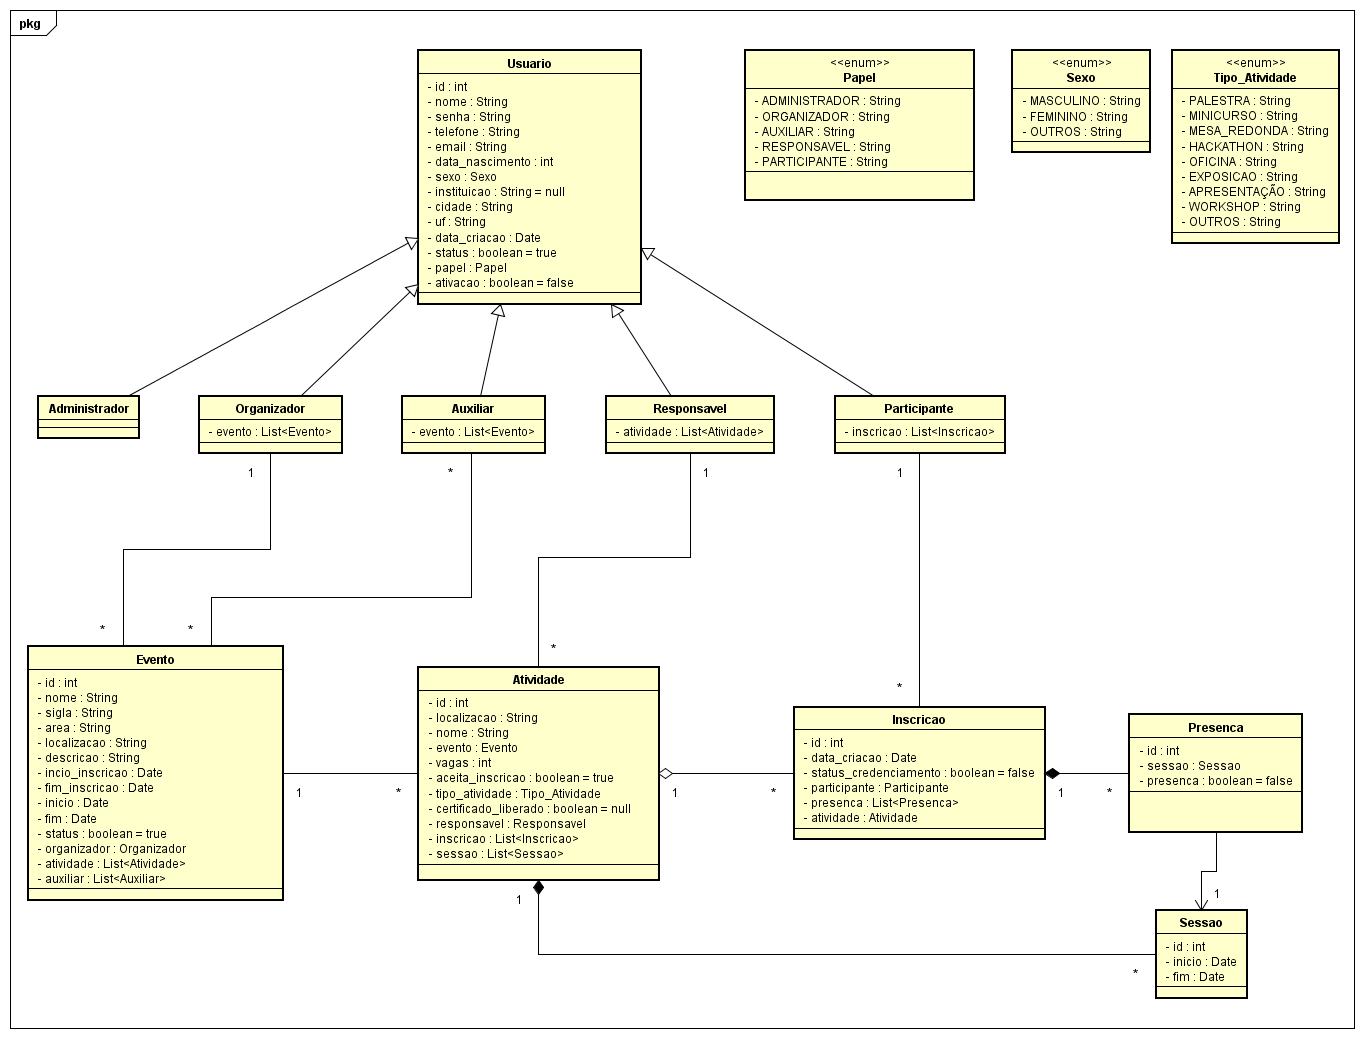
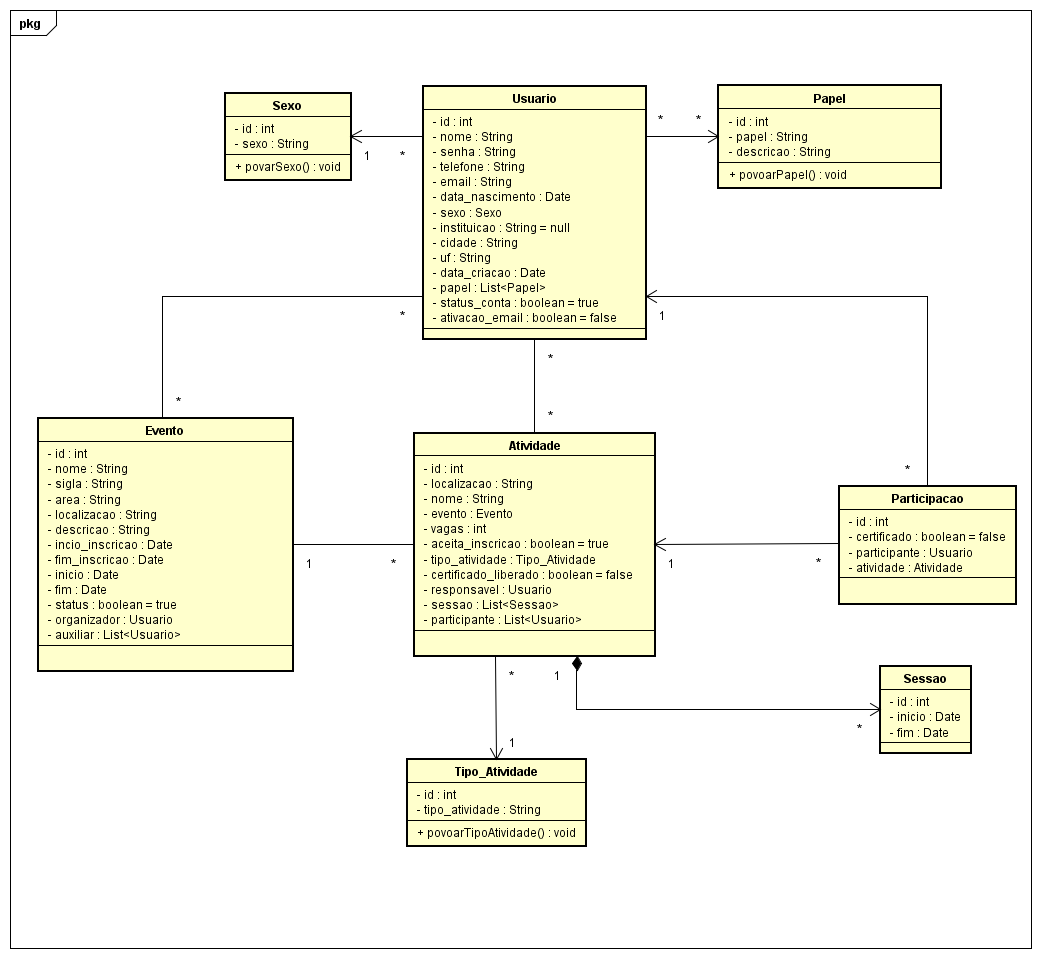
[#5] Finished Class Diagram and Mapped Entities

diff --git a/src/main/java/br/ufc/pet/seven/entity/Usuario.java b/src/main/java/br/ufc/pet/seven/entity/Usuario.java
@@ -68,21 +68,21 @@ public class Usuario {
 		
 	}
 	
-//	public Usuario(@NotNull String nome, @NotNull String senha, @NotNull String telefone, @NotNull String email,
-//			@NotNull Date data_nascimento, @NotNull Sexo sexo, String instituicao, @NotNull String cidade,
-//			@NotNull String uf, List<Papel> papel) {
-//		super();
-//		this.nome = nome;
-//		this.senha = senha;
-//		this.telefone = telefone;
-//		this.email = email;
-//		this.data_nascimento = data_nascimento;
-//		this.sexo = sexo;
-//		this.instituicao = instituicao;
-//		this.cidade = cidade;
-//		this.uf = uf;
-//		this.papel = papel;
-//	}
+	public Usuario(@NotNull String nome, @NotNull String senha, @NotNull String telefone, @NotNull String email,
+			@NotNull Date data_nascimento, @NotNull Sexo sexo, String instituicao, @NotNull String cidade,
+			@NotNull String uf, List<Papel> papel) {
+		super();
+		this.nome = nome;
+		this.senha = senha;
+		this.telefone = telefone;
+		this.email = email;
+		this.data_nascimento = data_nascimento;
+		this.sexo = sexo;
+		this.instituicao = instituicao;
+		this.cidade = cidade;
+		this.uf = uf;
+		this.papel = papel;
+	}
 
 	public int getId() {
 		return id;
@@ -164,13 +164,13 @@ public class Usuario {
 		return data_criacao;
 	}
 
-//	public List<Papel> getPapel() {
-//		return papel;
-//	}
-//
-//	public void setPapel(List<Papel> papel) {
-//		this.papel = papel;
-//	}
+	public List<Papel> getPapel() {
+		return papel;
+	}
+
+	public void setPapel(List<Papel> papel) {
+		this.papel = papel;
+	}
 
 	public boolean isStatus() {
 		return status_conta;

diff --git a/src/main/java/br/ufc/pet/seven/entity/Atividade.java b/src/main/java/br/ufc/pet/seven/entity/Atividade.java
@@ -4,8 +4,6 @@ import java.util.List;
 
 import javax.persistence.Column;
 import javax.persistence.Entity;
-import javax.persistence.EnumType;
-import javax.persistence.Enumerated;
 import javax.persistence.GeneratedValue;
 import javax.persistence.GenerationType;
 import javax.persistence.Id;
@@ -37,7 +35,7 @@ public class Atividade {
 	
 	@ManyToOne
 	@NotNull
-	private Tipo_Atividade tipo_atividade;
+	private TipoAtividade tipo_atividade;
 	
 	private boolean aceita_inscricao = true;
 	private boolean certificado_liberado = false;
@@ -59,7 +57,7 @@ public class Atividade {
 	}
 	
 	public Atividade(@NotNull String localizacao, @NotNull String nome, Evento evento, @NotNull int vagas,
-			@NotNull Tipo_Atividade tipo_atividade, @NotNull Usuario responsavel, @NotNull List<Sessao> sessao) {
+			@NotNull TipoAtividade tipo_atividade, @NotNull Usuario responsavel, @NotNull List<Sessao> sessao) {
 		super();
 		this.localizacao = localizacao;
 		this.nome = nome;
@@ -102,11 +100,11 @@ public class Atividade {
 		this.vagas = vagas;
 	}
 
-	public Tipo_Atividade getTipo_atividade() {
+	public TipoAtividade getTipo_atividade() {
 		return tipo_atividade;
 	}
 
-	public void setTipo_atividade(Tipo_Atividade tipo_atividade) {
+	public void setTipo_atividade(TipoAtividade tipo_atividade) {
 		this.tipo_atividade = tipo_atividade;
 	}
 

diff --git a/src/main/java/br/ufc/pet/seven/entity/TipoAtividade.java b/src/main/java/br/ufc/pet/seven/entity/TipoAtividade.java
@@ -5,21 +5,13 @@ import javax.persistence.Entity;
 import javax.persistence.GeneratedValue;
 import javax.persistence.GenerationType;
 import javax.persistence.Id;
+import javax.persistence.Table;
 import javax.validation.constraints.NotNull;
 
 @Entity
-public class Tipo_Atividade {
+@Table(name = "tipo_atividade")
+public class TipoAtividade {
 
-//	PALESTRA("palestra"), 
-//	MINICURSO("minicurso"), 
-//	MESA_REDONDA("mesa_redonda"), 
-//	HACKATHON("hackathon"), 
-//	OFICINA("oficina"), 
-//	EXPOSICAO("exposicao"), 
-//	APRESENTACAO("apresentacao"), 
-//	WORKSHOP("workshop"), 
-//	OUTROS("outros");
-	
 	@Id
 	@GeneratedValue(strategy = GenerationType.IDENTITY)
 	@Column(updatable = false, nullable = false)
@@ -28,7 +20,7 @@ public class Tipo_Atividade {
 	@NotNull
 	private String tipo_atividade;
 	
-	public Tipo_Atividade(@NotNull String tipo_atividade) {
+	public TipoAtividade(@NotNull String tipo_atividade) {
 		super();
 		this.tipo_atividade = tipo_atividade;
 	}

diff --git a/src/main/java/br/ufc/pet/seven/entity/Papel.java b/src/main/java/br/ufc/pet/seven/entity/Papel.java
@@ -5,9 +5,11 @@ import javax.persistence.Entity;
 import javax.persistence.GeneratedValue;
 import javax.persistence.GenerationType;
 import javax.persistence.Id;
+import javax.persistence.Table;
 import javax.validation.constraints.NotNull;
 
 @Entity
+@Table(name = "papel")
 public class Papel {
 	
 	@Id
@@ -50,11 +52,4 @@ public class Papel {
 	public int getId() {
 		return id;
 	}
-	
-//	ADMINISTRADOR("administrador"),
-//	ORGANIZADOR("organizador"),
-//	AUXILIAR("auxiliar"),
-//	RESPONSAVEL_ATIVIDADE("responsavel_atividade"),
-//	PARTICIPANTE("participante");	
-	
 }

diff --git a/src/main/java/br/ufc/pet/seven/entity/Participacao.java b/src/main/java/br/ufc/pet/seven/entity/Participacao.java
@@ -7,6 +7,7 @@ import javax.persistence.GenerationType;
 import javax.persistence.Id;
 import javax.persistence.ManyToOne;
 import javax.persistence.Table;
+import javax.validation.constraints.NotNull;
 
 @Entity
 @Table(name = "participacao")
@@ -20,9 +21,11 @@ public class Participacao {
 	private boolean certificado = false;
 
 	@ManyToOne
+	@NotNull
 	private Usuario participante;
 	
 	@ManyToOne
+	@NotNull
 	private Atividade atividade;	
 	
 	public Participacao() {

diff --git a/src/main/java/br/ufc/pet/seven/entity/Sexo.java b/src/main/java/br/ufc/pet/seven/entity/Sexo.java
@@ -5,14 +5,12 @@ import javax.persistence.Entity;
 import javax.persistence.GeneratedValue;
 import javax.persistence.GenerationType;
 import javax.persistence.Id;
+import javax.persistence.Table;
 import javax.validation.constraints.NotNull;
 
 @Entity
+@Table(name = "sexo")
 public class Sexo {
-
-//	MASCULINO("masculino"), 
-//	FEMININO("feminino"),
-//	OUTROS("outros");
 	
 	@Id
 	@GeneratedValue(strategy = GenerationType.IDENTITY)
